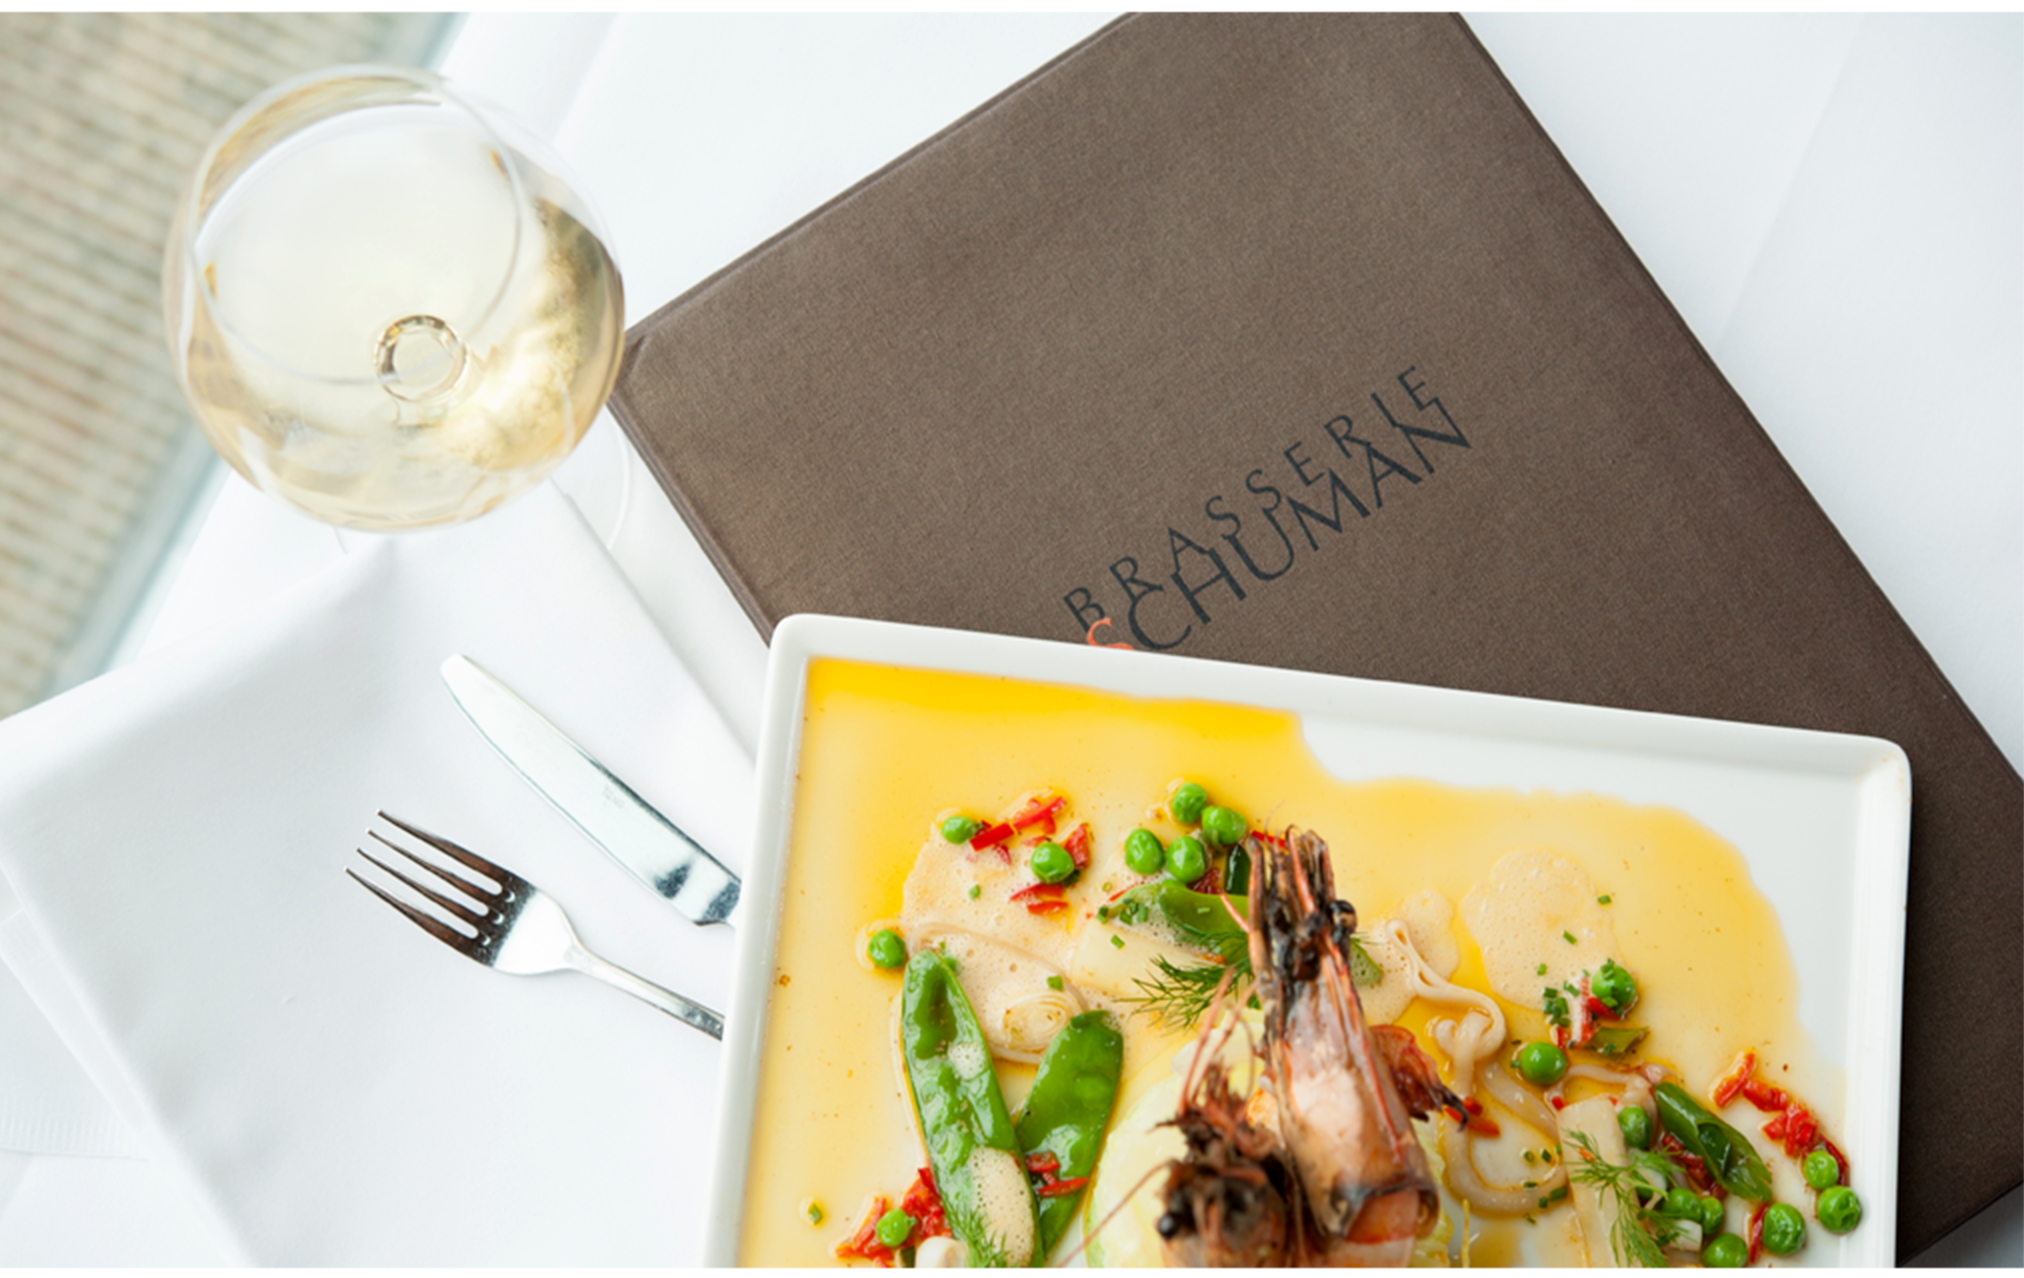
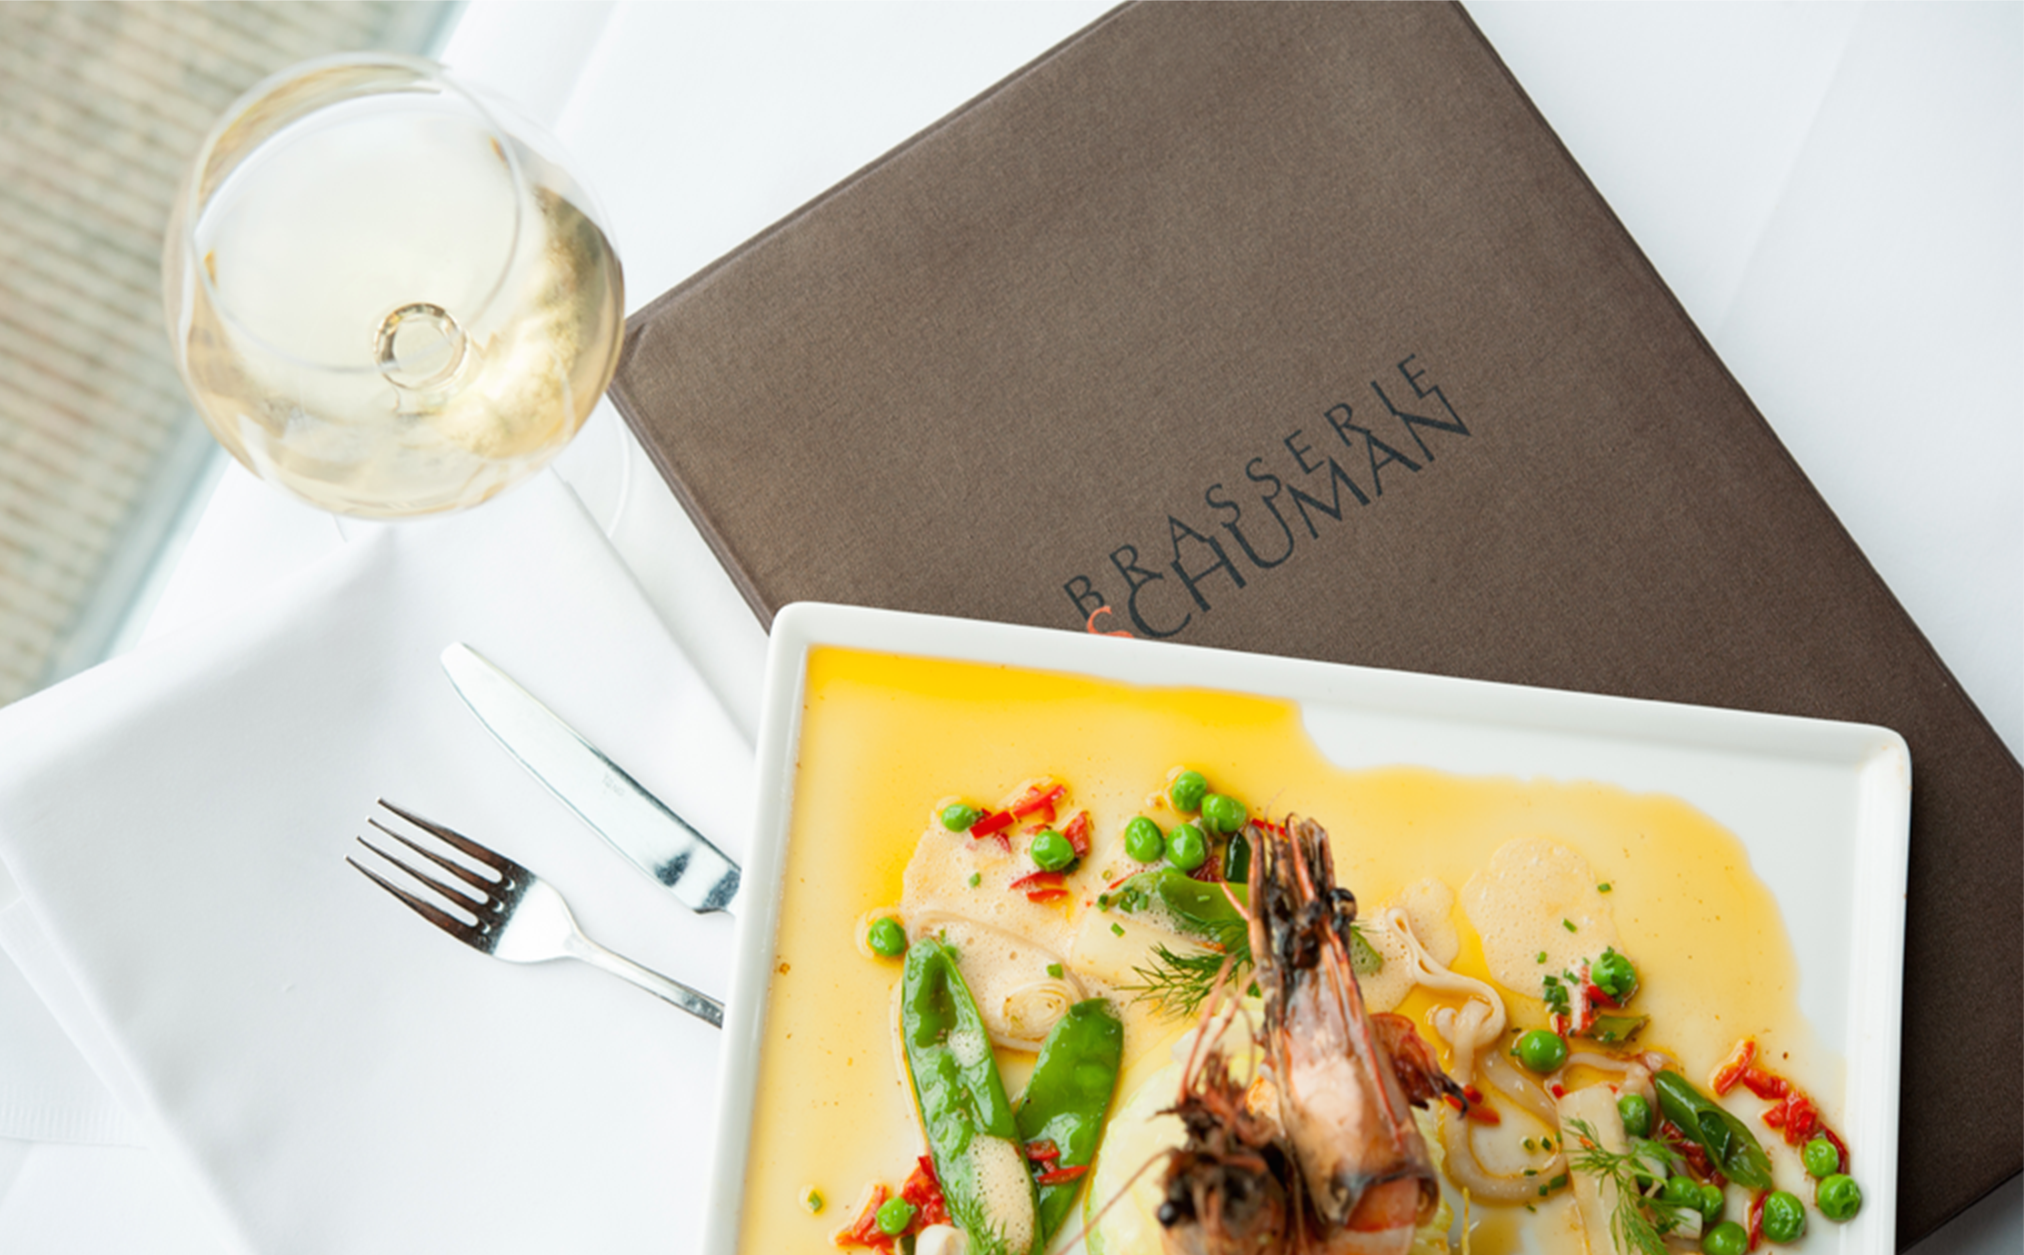
Put the hero picture and some styling

diff --git a/index.html b/index.html
@@ -1,7 +1,7 @@
 ---
 layout: default
 ---
-<figure class="site-hero"><img src="" alt=""></figure>
+<figure class="site-hero"><img src="images/hero.png" height="1278" width="2024" alt=""></figure>
 
 <section class="menu"></section>
 

diff --git a/css/main.scss b/css/main.scss
@@ -44,6 +44,7 @@
 
 @import "modules/header";
 @import "modules/navigation";
+@import "modules/hero";
 @import "modules/footer";
 // @import "modules/buttons";
 // @import "modules/tables";

diff --git a/_sass/modules/_hero.scss b/_sass/modules/_hero.scss
@@ -1,0 +1,4 @@
+figure.site-hero{
+    width: 100%;
+    margin:0;
+}
